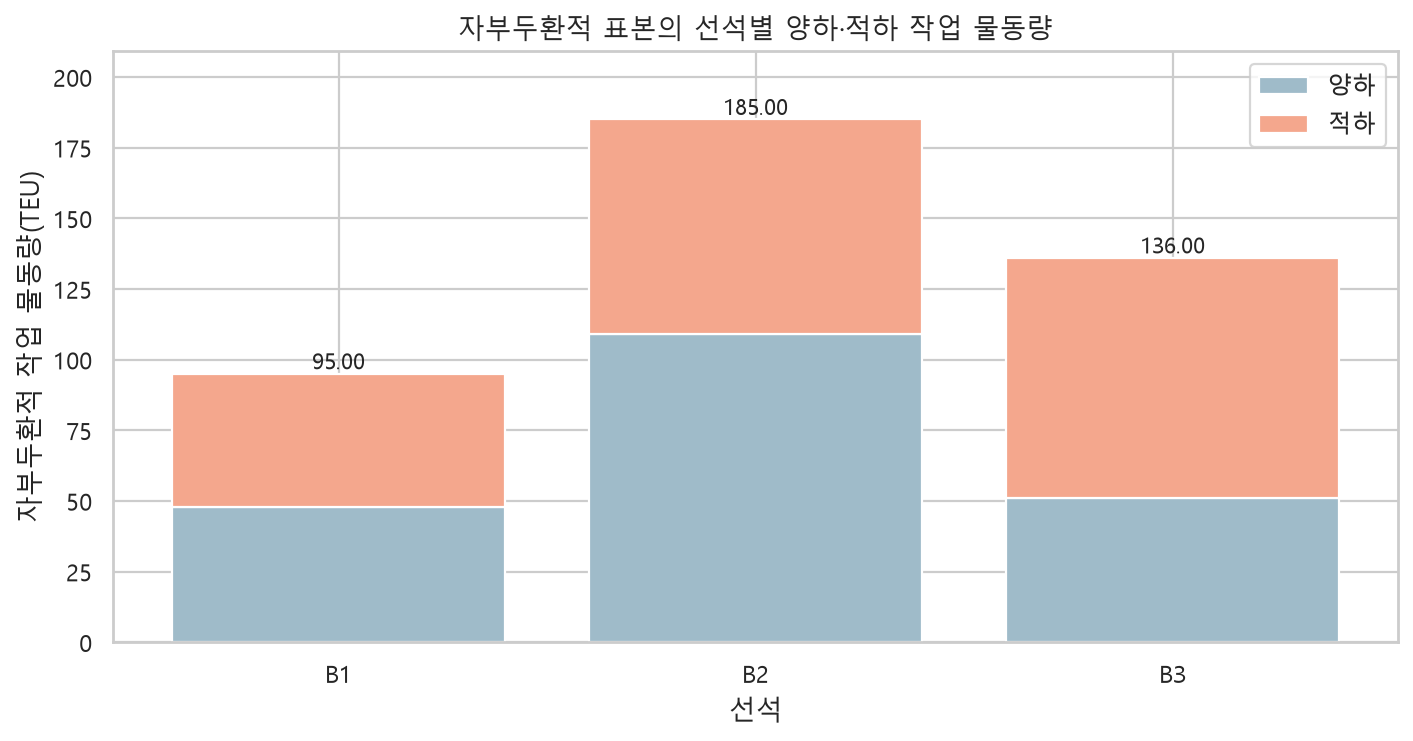
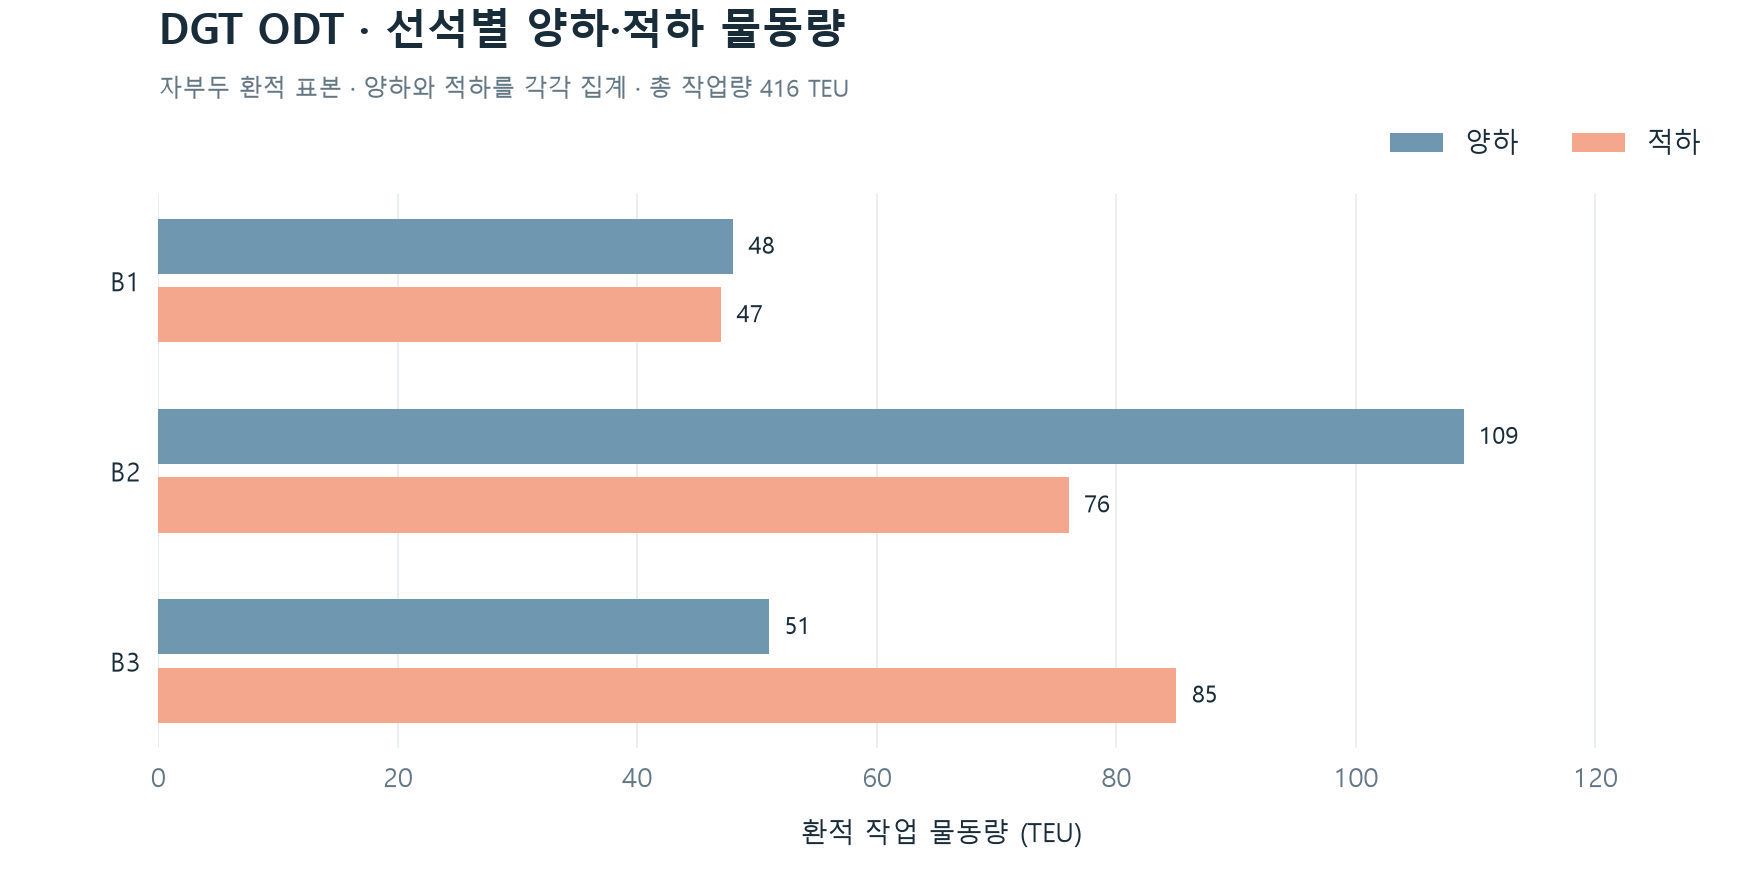
Use balanced blue tones and horizontal berth workload comparisons

diff --git a/prototype-streamlit/correlation.css b/prototype-streamlit/correlation.css
@@ -20,8 +20,8 @@
 .correlation-page .report-scatter { margin-top:8px; }
 .correlation-page .report-legend { display:flex; gap:24px; color:#607586; font-size:14px; }
 .correlation-page .report-legend span { display:flex; align-items:center; gap:8px; }
-.correlation-page .report-dot { display:inline-block; width:9px; height:9px; background:#9FBBC9; border-radius:50%; }
-.correlation-page .report-dot.voyage { background:#9FBBC9; border-radius:0; transform:rotate(45deg); }
+.correlation-page .report-dot { display:inline-block; width:9px; height:9px; background:#6F98B0; border-radius:50%; }
+.correlation-page .report-dot.voyage { background:#6F98B0; border-radius:0; transform:rotate(45deg); }
 .correlation-page .report-line { display:inline-block; width:24px; height:2px; background:#F4A78D; }
 .correlation-page .report-figure { background:white; border-radius:12px; padding:0; margin:14px 0; overflow:hidden; }
 .correlation-page .report-figure img { display:block; width:100%; height:auto; max-width:100%; object-fit:contain; }

diff --git a/prototype-streamlit/styles.css b/prototype-streamlit/styles.css
@@ -154,7 +154,7 @@ header[data-testid="stHeader"] [data-testid="stExpandSidebarButton"]:hover {
 .kpi-card p { min-height:20px; margin:0 0 14px; color:#192C3A; font-size:12px; }
 .kpi-card i { display:block; width:70%; height:5px; background:#192C3A; }
 
-.donut { display:grid; width:min(200px,80%); aspect-ratio:1; place-items:center; margin:20px auto; border-radius:50%; background:conic-gradient(#9FBBC9 0 46%,#F4A78D 46% 75%,#1F4E68 75% 92%,#D7E3EB 92%); }
+.donut { display:grid; width:min(200px,80%); aspect-ratio:1; place-items:center; margin:20px auto; border-radius:50%; background:conic-gradient(#6F98B0 0 46%,#F4A78D 46% 75%,#56829B 75% 92%,#94ADBC 92%); }
 .donut>span { display:grid; width:63%; aspect-ratio:1; align-content:center; border-radius:50%; background:#FFFFFF; text-align:center; }
 .donut strong { color:#192C3A; font-size:24px; }
 .donut small { color:var(--soft); font-size:11px; }

diff --git a/prototype-streamlit/improvement_content/presentation.css b/prototype-streamlit/improvement_content/presentation.css
@@ -26,7 +26,7 @@
 .presentation-content .brow{display:flex;align-items:center;gap:10px;margin:8px 0;font-size:13px}
 .presentation-content .bn{width:92px;color:var(--sub);flex-shrink:0}
 .presentation-content .track{flex:1;height:14px;background:#F2F5F7;border-radius:4px;overflow:hidden}
-.presentation-content .bar{display:block;height:100%;background:#9FBBC9;border-radius:4px}
+.presentation-content .bar{display:block;height:100%;background:#6F98B0;border-radius:4px}
 .presentation-content .bar.hi{background:#F4A78D}
 .presentation-content .bv{width:70px;text-align:right;font-weight:500;flex-shrink:0}
 .presentation-content .take{margin-top:18px;padding:14px 18px;border-left:3px solid #192C3A;background:var(--card);border-radius:0;font-size:15px}

diff --git a/prototype-streamlit/output/build_berth_volume.py b/prototype-streamlit/output/build_berth_volume.py
@@ -1,0 +1,54 @@
+"""Render horizontal workload comparisons from the published report values.
+
+ODT compares unloading/loading side by side. ITT contains only the HJNC
+operation for each direction; the opposite terminal is outside this dataset.
+"""
+from pathlib import Path
+import json
+import matplotlib
+matplotlib.use('Agg')
+import matplotlib.pyplot as plt
+import numpy as np
+
+ROOT = Path(__file__).resolve().parents[1]
+CHARTS = ROOT/'assets/correlation-analysis/unified'
+BLUE, CORAL, INK = '#6F98B0', '#F4A78D', '#192C3A'
+
+
+def build():
+    plt.rcParams.update({'font.family':'Malgun Gothic','font.size':12,
+                         'axes.unicode_minus':False,'text.color':INK,
+                         'axes.labelcolor':INK,'xtick.color':'#637784','ytick.color':INK})
+    values = json.loads((CHARTS/'berth-volume-values.json').read_text(encoding='utf-8'))
+    hjnc = json.loads((CHARTS/'unified-berth-values.json').read_text(encoding='utf-8'))['hjnc_volume']
+    reports = json.loads((CHARTS/'reports.json').read_text(encoding='utf-8'))
+    for key, entry in values.items():
+        series = hjnc if key == 'hjnc' else entry['series']
+        berths = list(next(iter(series.values())))
+        y = np.arange(len(berths))
+        fig, ax = plt.subplots(figsize=(11, 5.5))
+        paired = len(series) == 2
+        maximum = max(max(s.values()) for s in series.values())
+        for operation, vals in series.items():
+            offset = (-.18 if operation == 'unload' else .18) if paired else 0
+            bars = ax.barh(y+offset, [vals[b] for b in berths], height=.29 if paired else .44,
+                           color=BLUE if operation == 'unload' else CORAL,
+                           label='양하' if operation == 'unload' else '적하')
+            ax.bar_label(bars, labels=[f'{vals[b]:,.2f}'.rstrip('0').rstrip('.') for b in berths],
+                         padding=7, color=INK, fontsize=11)
+        ax.set_yticks(y, berths); ax.invert_yaxis(); ax.set_xlim(0, maximum*1.2)
+        ax.set_xlabel('환적 작업 물동량 (TEU)', labelpad=12)
+        ax.set_axisbelow(True); ax.grid(axis='x', color='#E7EDF1')
+        ax.tick_params(axis='both', length=0, pad=8)
+        for spine in ax.spines.values(): spine.set_visible(False)
+        ax.legend(frameon=False, ncol=2, loc='upper right', bbox_to_anchor=(1,1.16))
+        fig.text(.09,.95,entry['title'],fontsize=19,fontweight='bold',color=INK)
+        fig.text(.09,.89,entry['scope'],fontsize=11,color='#637784')
+        fig.subplots_adjust(left=.09,right=.98,top=.78,bottom=.15)
+        target = CHARTS/reports[key]['berth'][0]['image']
+        fig.savefig(target,dpi=160,facecolor='white');plt.close(fig)
+        print('Built', target.name)
+
+
+if __name__ == '__main__':
+    build()

diff --git a/prototype-streamlit/app_revised.py b/prototype-streamlit/app_revised.py
@@ -18,12 +18,12 @@ from improvement_content import views as improvement_views
 
 ROOT = Path(__file__).parent
 TERMINALS = (
-    ("PNC", 198_000, 84, 31.8, 67.0, "#9FBBC9"),
+    ("PNC", 198_000, 84, 31.8, 67.0, "#6F98B0"),
     ("PNIT", 174_000, 76, 29.4, 62.0, "#F4A78D"),
-    ("HJNC", 163_000, 71, 28.8, 59.0, "#1F4E68"),
-    ("HPNT", 149_000, 66, 27.9, 64.0, "#C6D8E3"),
+    ("HJNC", 163_000, 71, 28.8, 59.0, "#56829B"),
+    ("HPNT", 149_000, 66, 27.9, 64.0, "#88A7B9"),
     ("BNCT", 139_000, 61, 27.1, 57.0, "#7FA6BB"),
-    ("BCT", 118_000, 54, 25.8, 53.0, "#B0C9D8"),
+    ("BCT", 118_000, 54, 25.8, 53.0, "#789AAC"),
 )
 CARGO_FACTORS = {"전체 화물": 1.0, "수입": 0.34, "수출": 0.31, "환적": 0.35}
 MONTHS = pd.period_range("2025-11", periods=12, freq="M").strftime("%Y.%m").tolist()
@@ -121,8 +121,8 @@ def dashboard() -> None:
         st.line_chart(chart, x="월", y=["선택 기간", "이전 기간"], color=["#6F98B0", "#F4A78D"], height=300)
     with right, st.container(key="status_panel"):
         html('<div class="panel-head"><span>YARD STATUS</span><h2>작업 상태 분포</h2><p>샘플 기준</p></div>')
-        status = [("완료", 46, "#9FBBC9"), ("작업 중", 29, "#F4A78D"),
-                  ("대기", 17, "#1F4E68"), ("점검", 8, "#D7E3EB")]
+        status = [("완료", 46, "#6F98B0"), ("작업 중", 29, "#F4A78D"),
+                  ("대기", 17, "#56829B"), ("점검", 8, "#94ADBC")]
         legend = "".join(f'<div><i style="background:{color}"></i><span>{name}</span><strong>{share}%</strong></div>'
                          for name, share, color in status)
         html('<div class="donut"><span><strong>100%</strong><small>상태 분포</small></span></div>'

diff --git a/prototype-streamlit/output/preliminary-analysis-20261109/build_figures.py b/prototype-streamlit/output/preliminary-analysis-20261109/build_figures.py
@@ -34,11 +34,11 @@ plt.rcParams.update({
     "savefig.facecolor": "white",
 })
 
-BLUE = "#9FBBC9"
+BLUE = "#6F98B0"
 TEAL = "#F4A78D"
 INK = "#192C3A"
 MUTED = "#526573"
-OTHER = "#D7E3EB"
+OTHER = "#94ADBC"
 
 
 def seconds(days=0, hours=0, minutes=0, secs=0):
@@ -132,7 +132,7 @@ def overall():
     fig.text(.035, .975, "환적 전체 소요시간", fontsize=24, weight="bold", va="top")
     fig.text(.035, .89, "같은 경로의 평균과 중앙값을 나란히 비교 · 최초 반입부터 최종 반출까지", color=MUTED)
     positions = np.arange(len(ROUTES))
-    for offset, key, color, label in [(-.18, "mean_h", "#9FBBC9", "평균"),
+    for offset, key, color, label in [(-.18, "mean_h", "#6F98B0", "평균"),
                                       (.18, "median_h", "#F4A78D", "중앙값")]:
         values = [route[key] for route in ROUTES]
         ax.barh(positions + offset, values, height=.29, color=color, label=label, zorder=2)
@@ -176,7 +176,7 @@ def stage_detail():
                 rows = [stage for stage in route["stages"] if (stage[2] != "other") == yard]
                 for i, (label, sec, kind) in enumerate(rows):
                     value = sec / (86400 if yard else 60)
-                    color = "#F4A78D" if kind != "other" else "#9FBBC9"
+                    color = "#F4A78D" if kind != "other" else "#6F98B0"
                     ax.barh(i, value, height=.40, color=color, zorder=2)
                     ax.text(value + limit * .025, i, duration(sec), va="center", fontsize=10,
                             color=INK, weight="bold" if yard else "normal")

diff --git a/prototype-streamlit/output/retheme_correlation_charts.py b/prototype-streamlit/output/retheme_correlation_charts.py
@@ -3,6 +3,7 @@
 Input snapshots are the charts originally published with this app. Palette
 mapping preserves their size, axes, labels, observation locations and r/n text.
 The original RdBu heatmap is remapped at the same positions on its [-1, 1] scale.
+Workload plots are rebuilt separately with the approved horizontal layout.
 Requires numpy, matplotlib and Pillow; these are authoring dependencies only.
 """
 from pathlib import Path
@@ -14,7 +15,7 @@ from matplotlib import colormaps
 from matplotlib.colors import LinearSegmentedColormap
 
 ROOT = Path(__file__).resolve().parents[1]
-BLUE = "#9FBBC9"
+BLUE = "#6F98B0"
 CORAL = "#F4A78D"
 HEATMAP = LinearSegmentedColormap.from_list("blue_white_coral", ["#6F98B0", "#FFFFFF", CORAL])
 
@@ -83,6 +84,8 @@ def main():
     with zipfile.ZipFile(ROOT / "output/correlation-chart-originals.zip") as archive:
         for name in archive.namelist():
             assert Path(name).name == name and name.endswith(".png")
+            if name in {"unified-dgt-berth-0.png", "unified-hjnc-berth-volume.png", "unified-itt-forward-berth-volume.png", "unified-itt-reverse-berth-volume.png"}:
+                continue
             result, changed = retheme_bytes(archive.read(name), name)
             assert changed > 0, name
             (target/name).write_bytes(result)
@@ -91,3 +94,5 @@ def main():
 
 if __name__ == "__main__":
     main()
+    from build_berth_volume import build
+    build()

diff --git a/prototype-streamlit/README.md b/prototype-streamlit/README.md
@@ -41,9 +41,9 @@ prototype-streamlit/
 
 ## 화면과 데이터
 
-화면 기본 색은 네이비 `#192C3A`와 흰색 `#FFFFFF`입니다. 메뉴·제목·버튼은 네이비, 배경·카드는 흰색으로 구성합니다. 그래프는 밝은 블루 `#9FBBC9`를 기본으로, 코랄 `#F4A78D`를 비교·강조 색으로 사용합니다. 중간 톤 블루 `#6F98B0`와 밝은 파생 색을 보조 색으로 사용합니다. 프로젝트 소개의 현황 분석 그래프도 같은 팔레트로 다시 그렸으며, 공정별 평균 소요시간은 야드 체류(일)와 나머지 공정(분)을 분리한 가로 막대로 표시합니다. 야드 체류는 코랄, 나머지 공정은 블루로 구분합니다. 환적 전체 소요시간은 평균(블루)과 중앙값(코랄)을 나란히 놓은 가로 막대로 비교합니다. 분석 내용의 23개 그래프도 같은 팔레트를 적용했습니다. 관측값은 블루, 회귀선은 코랄이며 상관관계 히트맵은 음수 블루·0 흰색·양수 코랄을 사용합니다. 상관계수 눈금은 −1~1로 유지합니다.
+화면 기본 색은 네이비 `#192C3A`와 흰색 `#FFFFFF`입니다. 메뉴·제목·버튼은 네이비, 배경·카드는 흰색으로 구성합니다. 그래프는 중간 톤 블루 `#6F98B0`를 기본으로, 코랄 `#F4A78D`를 비교·강조 색으로 사용합니다. 블루 파생 색은 중간 명도 범위에서 구분하며, 코랄은 기존 색상을 유지합니다. 프로젝트 소개의 현황 분석 그래프도 같은 팔레트로 다시 그렸으며, 공정별 평균 소요시간은 야드 체류(일)와 나머지 공정(분)을 분리한 가로 막대로 표시합니다. 야드 체류는 코랄, 나머지 공정은 블루로 구분합니다. 환적 전체 소요시간은 평균(블루)과 중앙값(코랄)을 나란히 놓은 가로 막대로 비교합니다. 분석 내용의 23개 그래프도 같은 팔레트를 적용했습니다. 관측값은 블루, 회귀선은 코랄이며 상관관계 히트맵은 음수 블루·0 흰색·양수 코랄을 사용합니다. 상관계수 눈금은 −1~1로 유지합니다.
 
-그래프의 기본 막대와 관측값은 밝은 블루, 비교·강조 항목과 회귀선은 코랄을 사용합니다. 밝은 막대 위 수치에는 짙은 글자색을 사용합니다. 문제제기의 ODT·ITT 공정은 선박·크레인·야드·트럭 아이콘으로 표시하며, ITT의 추가 이동과 도착 부두를 코랄 계열로 구분합니다.
+그래프의 기본 막대와 관측값은 중간 톤 블루, 비교·강조 항목과 회귀선은 코랄을 사용합니다. 밝은 막대 위 수치에는 짙은 글자색을 사용합니다. 문제제기의 ODT·ITT 공정은 선박·크레인·야드·트럭 아이콘으로 표시하며, ITT의 추가 이동과 도착 부두를 코랄 계열로 구분합니다.
 
 - 개선안(`/improvement`): 첨부 발표 자료의 선석 공유 제안을 표시합니다.
 - 시뮬레이션(`/intro-solution`): 검증 과정과 조건을 표시합니다.
@@ -59,4 +59,6 @@ prototype-streamlit/
 
 ## 분석 그래프 색상 재생성
 
-`output/retheme_correlation_charts.py`는 `output/correlation-chart-originals.zip`에 보관한 원래 23개 이미지의 색상만 변환합니다. 점의 위치, 축, 표본 수와 상관계수는 유지합니다. 생성 작업에는 numpy·matplotlib·Pillow가 필요하며 앱 실행에는 필요하지 않습니다. 기존 분석 생성기를 다시 실행했다면 이 색상 변환도 다시 실행하세요. 프로젝트 소개 그래프는 `output/preliminary-analysis-20261109/build_figures.py`에서 생성합니다.
+`output/retheme_correlation_charts.py`는 `output/correlation-chart-originals.zip`에 보관한 원래 분석 이미지의 색상을 변환하고, 선석별 물동량 4개 그래프는 별도 생성기를 호출해 가로 막대로 다시 그립니다. 산점도의 점 위치, 축, 표본 수와 상관계수는 유지합니다. 생성 작업에는 numpy·matplotlib·Pillow가 필요하며 앱 실행에는 필요하지 않습니다. 기존 분석 생성기를 다시 실행했다면 이 색상 변환도 다시 실행하세요. 프로젝트 소개 그래프는 `output/preliminary-analysis-20261109/build_figures.py`에서 생성합니다.
+
+선석별 물동량은 `output/build_berth_volume.py`로 다시 생성합니다. 자부두는 양하(블루)·적하(코랄)를 나란히 비교하며, 타부두는 방향별로 실제 집계된 HJNC 작업만 단일 가로 막대로 표시합니다. 수치는 기존 `unified-berth-values.json`과 공개된 기존 그래프에서 보존한 `berth-volume-values.json`을 사용합니다. 합계가 아닌 개별 작업량을 막대 끝에 표시하며, 단위는 TEU입니다.
